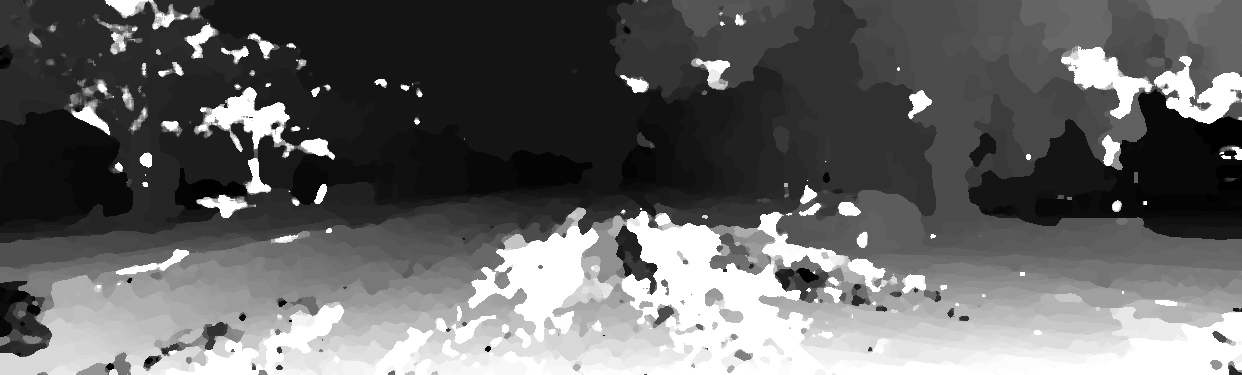
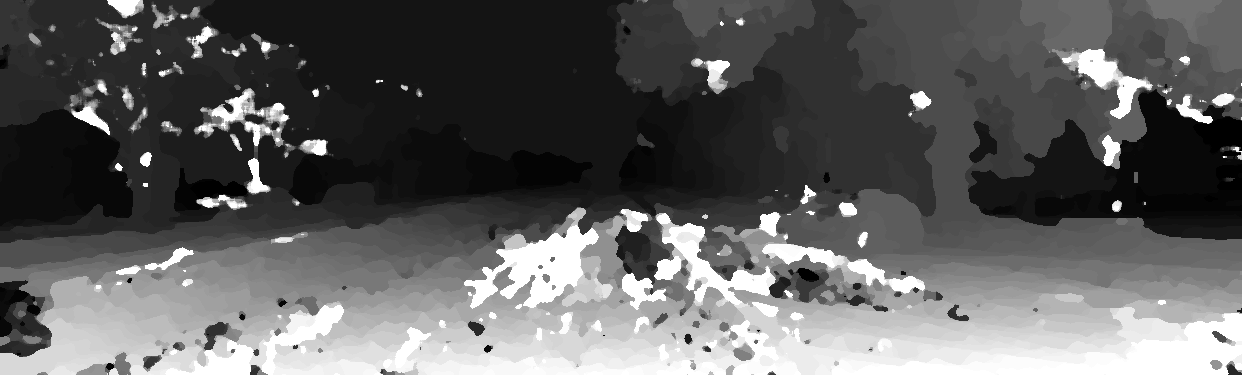
update

diff --git a/STCostAggregation/src/STCostAggregation.cpp b/STCostAggregation/src/STCostAggregation.cpp
@@ -52,7 +52,7 @@ int main(int argc, const char** argv) {
 	//	exit(0);
 	//}
 
-	int maxLevel = 256;
+	int maxLevel = 128;
 	int scale = 4;
 	float sigma = 0.1f;
 	//METHOD method = ST_RAW;
